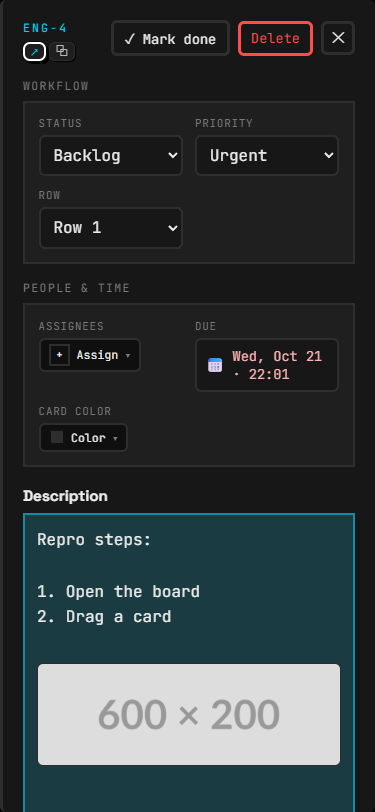
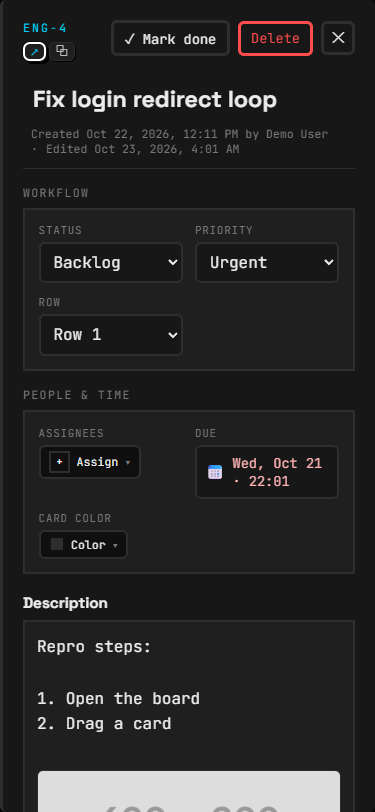
Retake drawer shots with the title in view; test the editable title
The title was never missing from the app: the screenshot script scrolled the
drawer to the Workflow group (scrollIntoView), which pushed the title out of
frame in before- and after-drawer shots. Measured unscrolled at 1440, 1024
and 375: the title input is present, editable and at the top under the ref
and action row. After-shots retaken without scrolling (before-shots, taken
on main, keep the scrolled framing). New test: the drawer opens with an
editable title above the Workflow group and saves a rename.

diff --git a/apps/web/tests/dueDate.test.tsx b/apps/web/tests/dueDate.test.tsx
@@ -79,6 +79,22 @@ describe("due date on the board", () => {
     await waitFor(() => expect(chipOf("ENG issue 4")).toBeNull());
   });
 
+  it("opens the drawer with an editable title above the field groups", async () => {
+    const user = userEvent.setup();
+    const db = await openBoard();
+    await user.click(screen.getByText("ENG issue 1"));
+    const title = await screen.findByLabelText("Issue title");
+    expect(title).toHaveValue("ENG issue 1");
+    expect(title).not.toHaveAttribute("readonly");
+    const workflow = screen.getByRole("region", { name: "Workflow" });
+    expect(title.compareDocumentPosition(workflow) & Node.DOCUMENT_POSITION_FOLLOWING).toBeTruthy();
+
+    await user.clear(title);
+    await user.type(title, "Renamed issue");
+    await user.tab();
+    await waitFor(() => expect(db.issues[0]!.title).toBe("Renamed issue"));
+  });
+
   it("puts Due next to Assignees in the drawer, with no Timer field", async () => {
     const user = userEvent.setup();
     await openBoard();
